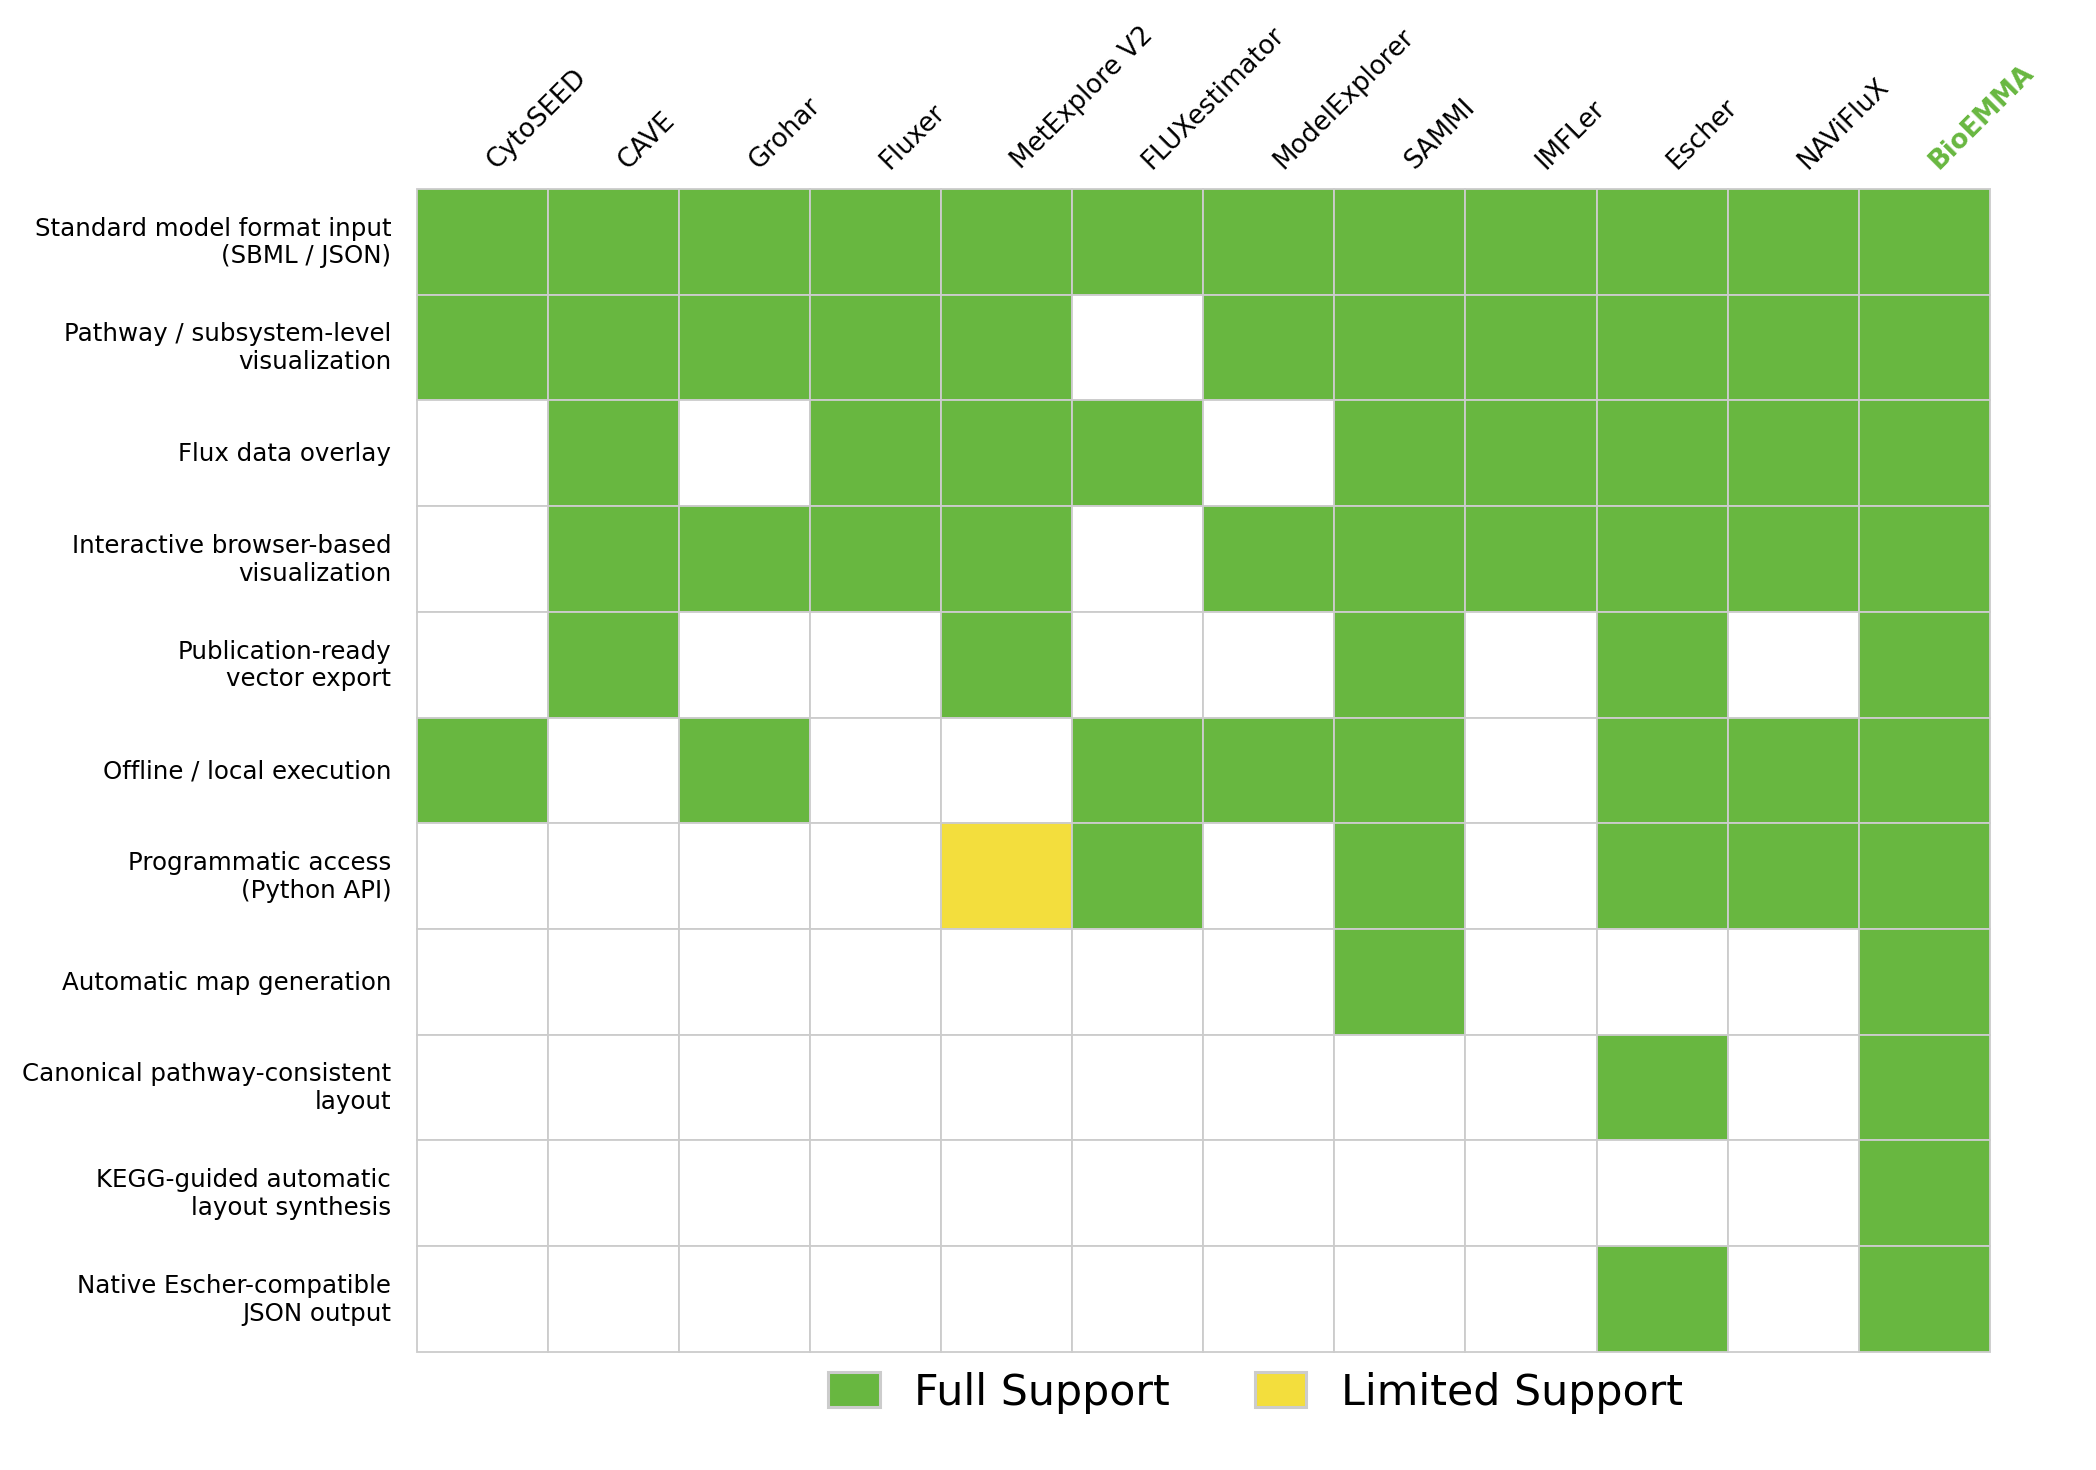
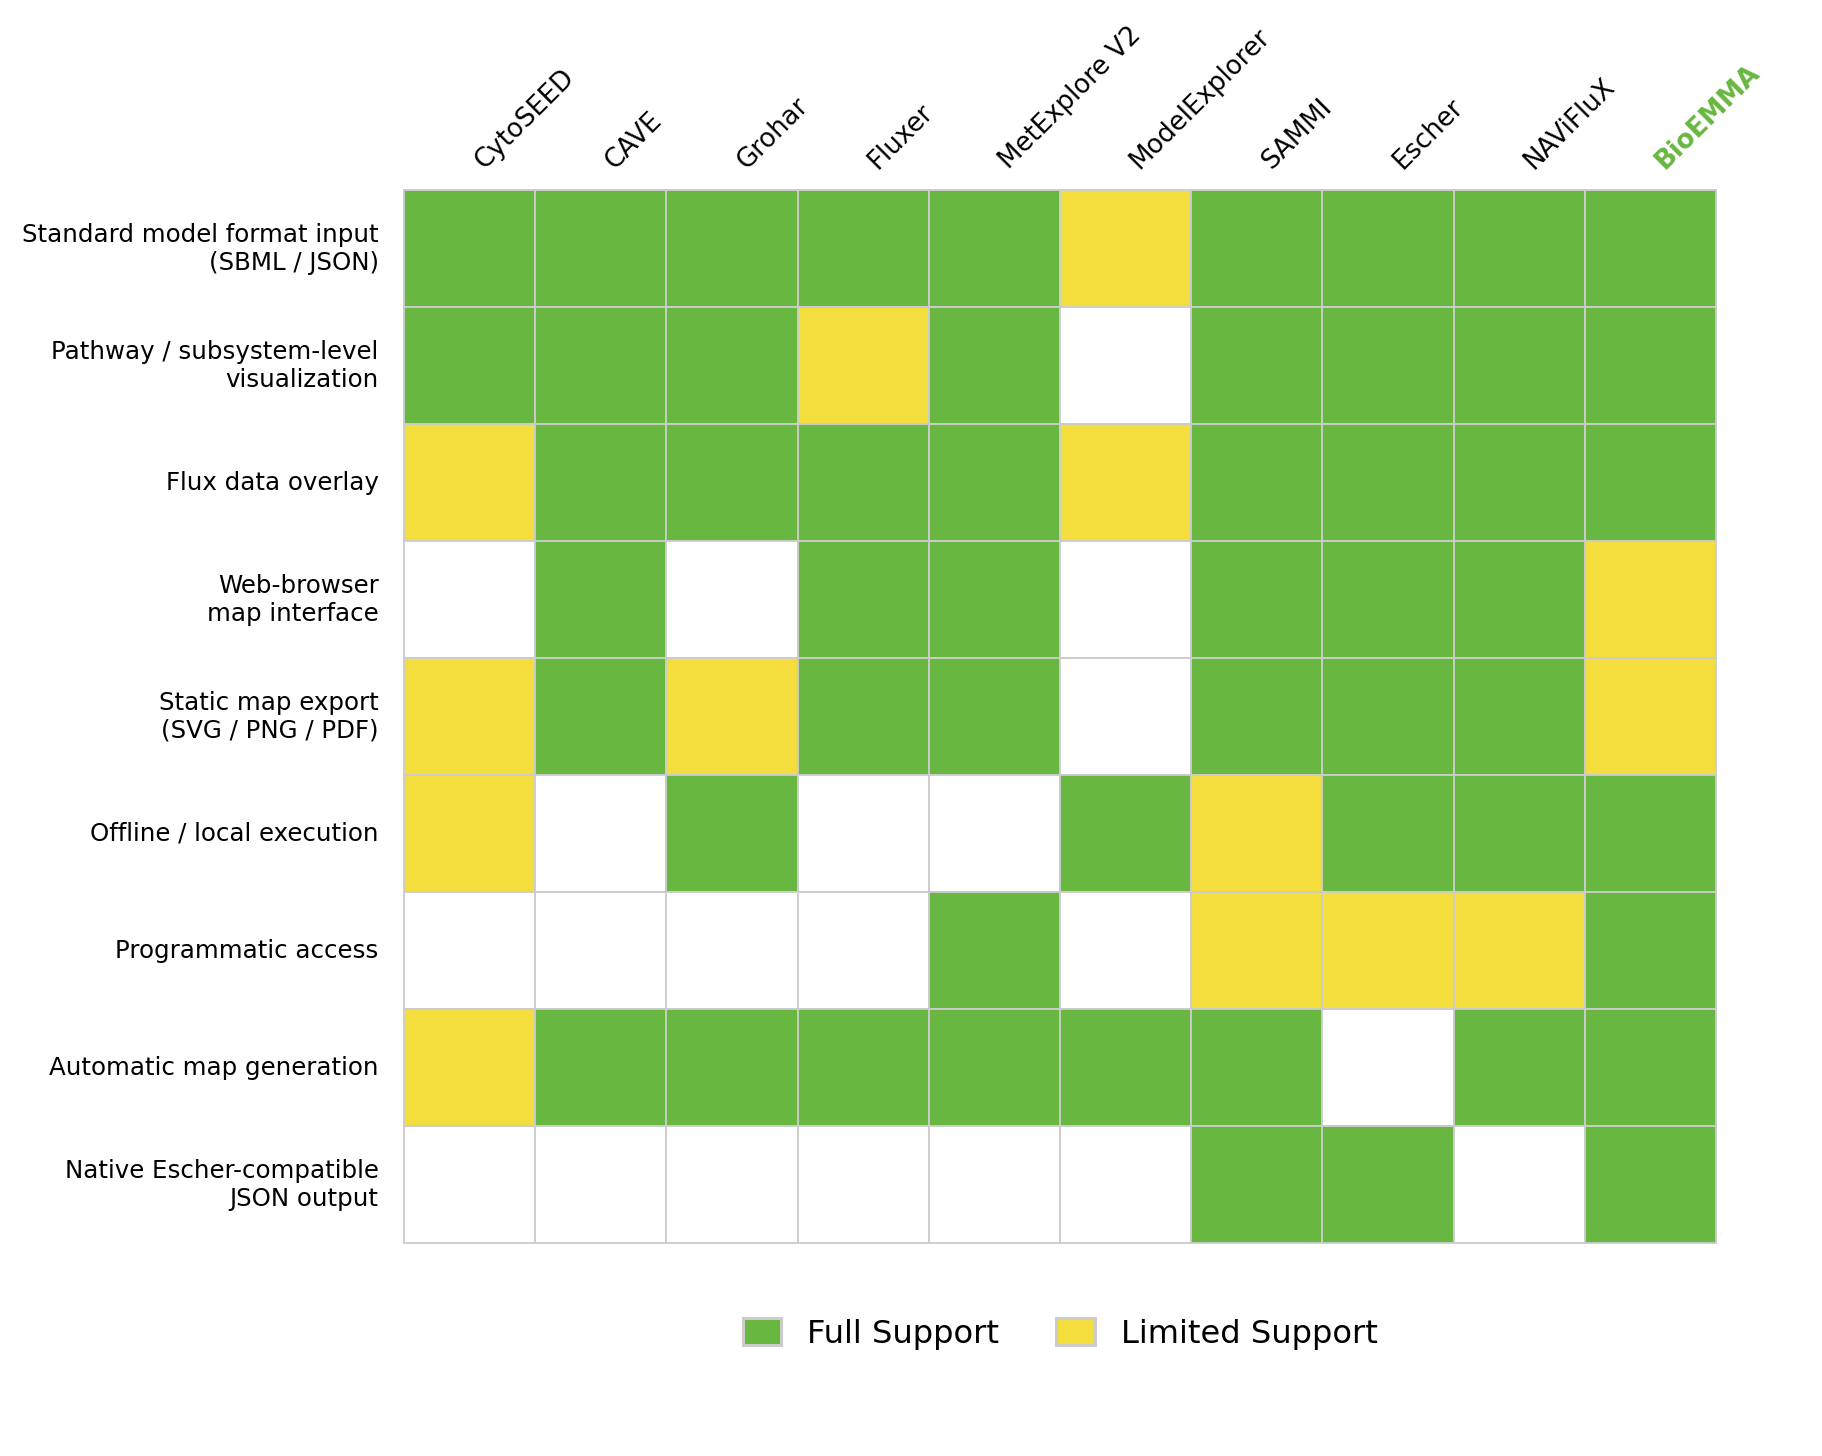
update tool comp

diff --git a/results/external_tool_comparison/tool_comparison.html b/results/external_tool_comparison/tool_comparison.html
@@ -43,16 +43,16 @@
     </tr>
     <tr>
       <th>SAMMI</th>
-      <td>✅</td>
-      <td>✅ pip</td>
-      <td>✅ через cobra</td>
-      <td>✅</td>
-      <td>✅</td>
+      <td>yes</td>
+      <td>limited: Python wrapper</td>
+      <td>yes: via COBRA</td>
+      <td>yes</td>
+      <td>yes</td>
       <td>force-directed</td>
-      <td>✅ HTML</td>
-      <td>✅</td>
-      <td>❌</td>
-      <td>❌</td>
+      <td>yes: HTML</td>
+      <td>limited</td>
+      <td>no</td>
+      <td>no</td>
     </tr>
     <tr>
       <th>Fluxer</th>
@@ -75,7 +75,7 @@
       <td>❌</td>
       <td>⚠ local</td>
       <td>авто</td>
-      <td>✅ Java</td>
+      <td>❌ Java desktop</td>
       <td>✅</td>
       <td>❌</td>
       <td>❌</td>

diff --git a/scripts/build_tool_comparison_matrix.py b/scripts/build_tool_comparison_matrix.py
@@ -12,7 +12,7 @@ import numpy as np
 
 
 REPO_ROOT = Path(__file__).resolve().parents[1]
-OUTPUT_DIR = REPO_ROOT / "outputs" / "tool_comparison"
+OUTPUT_DIR = REPO_ROOT / "results" / "external_tool_comparison"
 OUTPUT_PATH = OUTPUT_DIR / "tool_comparison_matrix.png"
 
 TOOLS = [
@@ -21,10 +21,8 @@ TOOLS = [
     "Grohar",
     "Fluxer",
     "MetExplore V2",
-    "FLUXestimator",
     "ModelExplorer",
     "SAMMI",
-    "IMFLer",
     "Escher",
     "NAViFluX",
     "BioEMMA",
@@ -34,31 +32,38 @@ FEATURES = [
     "Standard model format input\n(SBML / JSON)",
     "Pathway / subsystem-level\nvisualization",
     "Flux data overlay",
-    "Interactive browser-based\nvisualization",
-    "Publication-ready\nvector export",
+    "Web-browser\nmap interface",
+    "Static map export\n(SVG / PNG / PDF)",
     "Offline / local execution",
-    "Programmatic access\n(Python API)",
+    "Programmatic access",
     "Automatic map generation",
-    "Canonical pathway-consistent\nlayout",
-    "KEGG-guided automatic\nlayout synthesis",
     "Native Escher-compatible\nJSON output",
 ]
 
 # 0 = no support, 1 = full support, 2 = limited support.
+# Columns follow TOOLS order.
 MATRIX = np.array(
     [
-        [1, 1, 1, 1, 1, 1, 1, 1, 1, 1, 1, 1],
-        [1, 1, 1, 1, 1, 0, 1, 1, 1, 1, 1, 1],
-        [0, 1, 0, 1, 1, 1, 0, 1, 1, 1, 1, 1],
-        [0, 1, 1, 1, 1, 0, 1, 1, 1, 1, 1, 1],
-        [0, 1, 0, 0, 1, 0, 0, 1, 0, 1, 0, 1],
-        [1, 0, 1, 0, 0, 1, 1, 1, 0, 1, 1, 1],
-        [0, 0, 0, 0, 2, 1, 0, 1, 0, 1, 1, 1],
-        [0, 0, 0, 0, 0, 0, 0, 1, 0, 0, 0, 1],
-        [0, 0, 0, 0, 0, 0, 0, 0, 0, 1, 0, 1],
-        [0, 0, 0, 0, 0, 0, 0, 0, 0, 0, 0, 1],
-        [0, 0, 0, 0, 0, 0, 0, 0, 0, 1, 0, 1],
-    ]
+        # Standard model format input (SBML / JSON)
+        [1, 1, 1, 1, 1, 2, 1, 1, 1, 1],
+        # Pathway / subsystem-level visualization
+        [1, 1, 1, 2, 1, 0, 1, 1, 1, 1],
+        # Flux data overlay
+        [2, 1, 1, 1, 1, 2, 1, 1, 1, 1],
+        # Web-browser map interface
+        [0, 1, 0, 1, 1, 0, 1, 1, 1, 2],
+        # Static map export (SVG / PNG / PDF)
+        [2, 1, 2, 1, 1, 0, 1, 1, 1, 2],
+        # Offline / local execution
+        [2, 0, 1, 0, 0, 1, 2, 1, 1, 1],
+        # Programmatic access
+        [0, 0, 0, 0, 1, 0, 2, 2, 2, 1],
+        # Automatic map generation
+        [2, 1, 1, 1, 1, 1, 1, 0, 1, 1],
+        # Native Escher-compatible JSON output
+        [0, 0, 0, 0, 0, 0, 1, 1, 0, 1],
+    ],
+    dtype=int,
 )
 
 FULL = "#68B740"
@@ -73,14 +78,20 @@ def main() -> None:
     n_tools = len(TOOLS)
     n_features = len(FEATURES)
 
+    if MATRIX.shape != (n_features, n_tools):
+        raise ValueError(
+            f"Matrix shape {MATRIX.shape} does not match "
+            f"{n_features} features x {n_tools} tools"
+        )
+
     cell_w = 0.62
     cell_h = 0.55
     label_w = 1.8
     top_pad = 2.8
-    bottom_pad = 0.5
+    bottom_pad = 0.9
 
     fig_w = label_w + n_tools * cell_w + 0.4
-    fig_h = top_pad + n_features * cell_h + bottom_pad - 2.5
+    fig_h = top_pad + n_features * cell_h + bottom_pad - 2.1
 
     fig, ax = plt.subplots(figsize=(fig_w, fig_h))
     ax.set_xlim(0, fig_w)
@@ -146,14 +157,15 @@ def main() -> None:
             mpatches.Patch(facecolor=FULL, edgecolor=GRID, label="Full Support"),
             mpatches.Patch(facecolor=LIMITED, edgecolor=GRID, label="Limited Support"),
         ],
-        loc="lower left",
-        bbox_to_anchor=((x0 + 2) / fig_w, (y0 - 0.18) / fig_h),
-        bbox_transform=fig.transFigure,
+        loc="upper center",
+        bbox_to_anchor=(x0 + n_tools * cell_w / 2, y0 - 0.22),
+        bbox_transform=ax.transData,
         frameon=False,
         ncol=2,
-        fontsize=14,
+        fontsize=10.5,
         handlelength=1.2,
         handleheight=0.9,
+        columnspacing=1.8,
     )
 
     OUTPUT_DIR.mkdir(parents=True, exist_ok=True)
